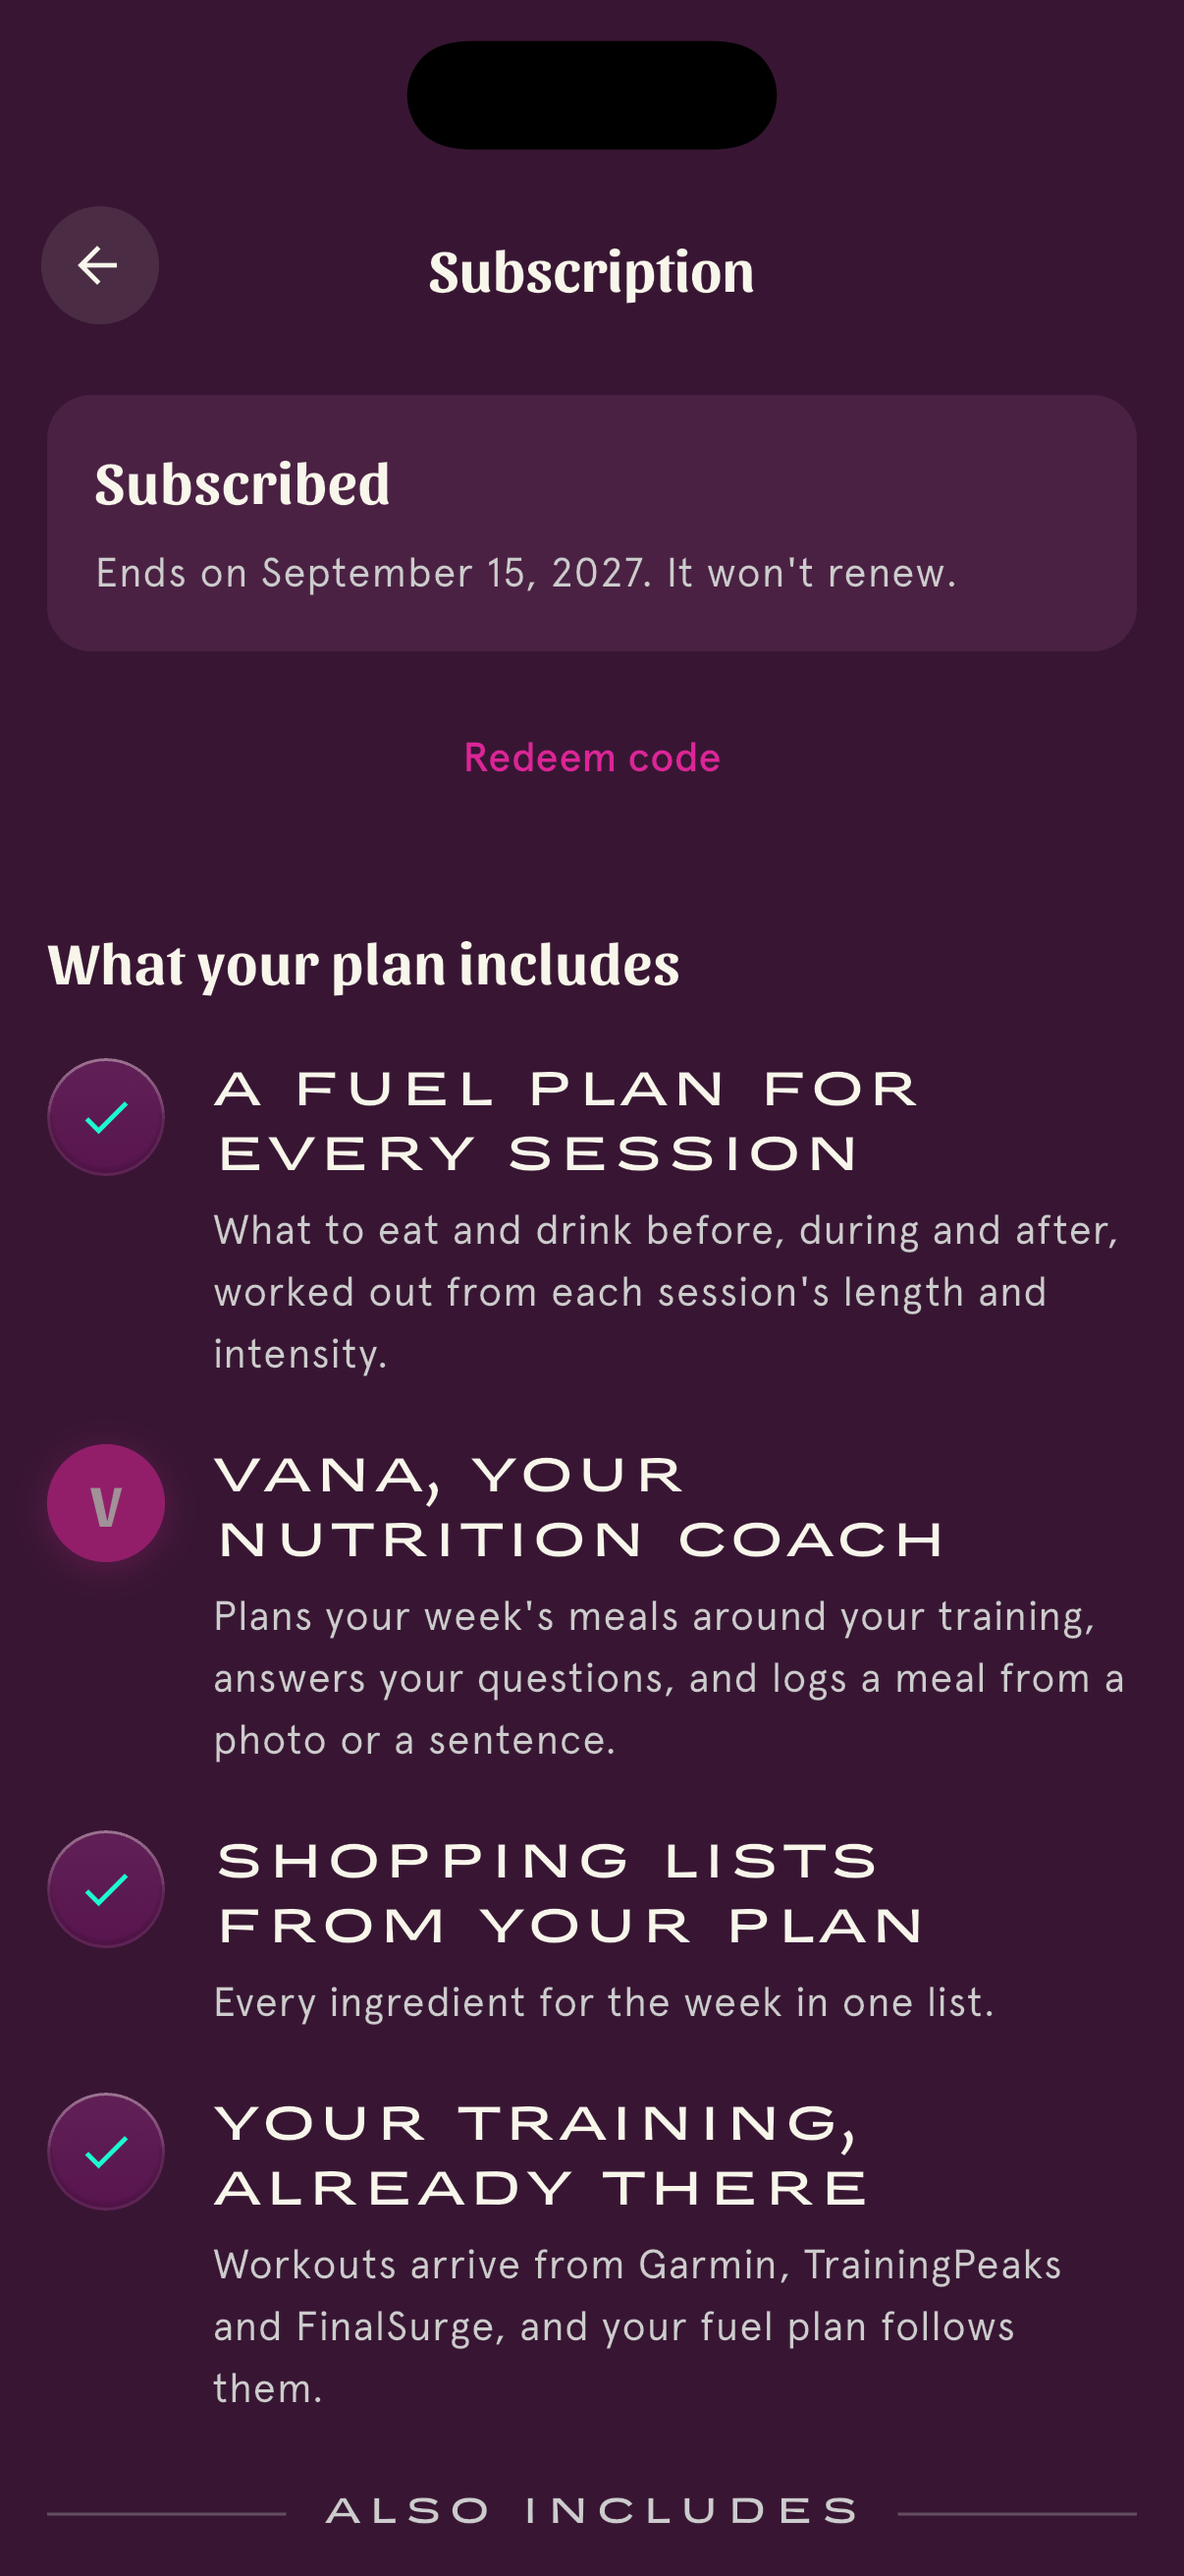
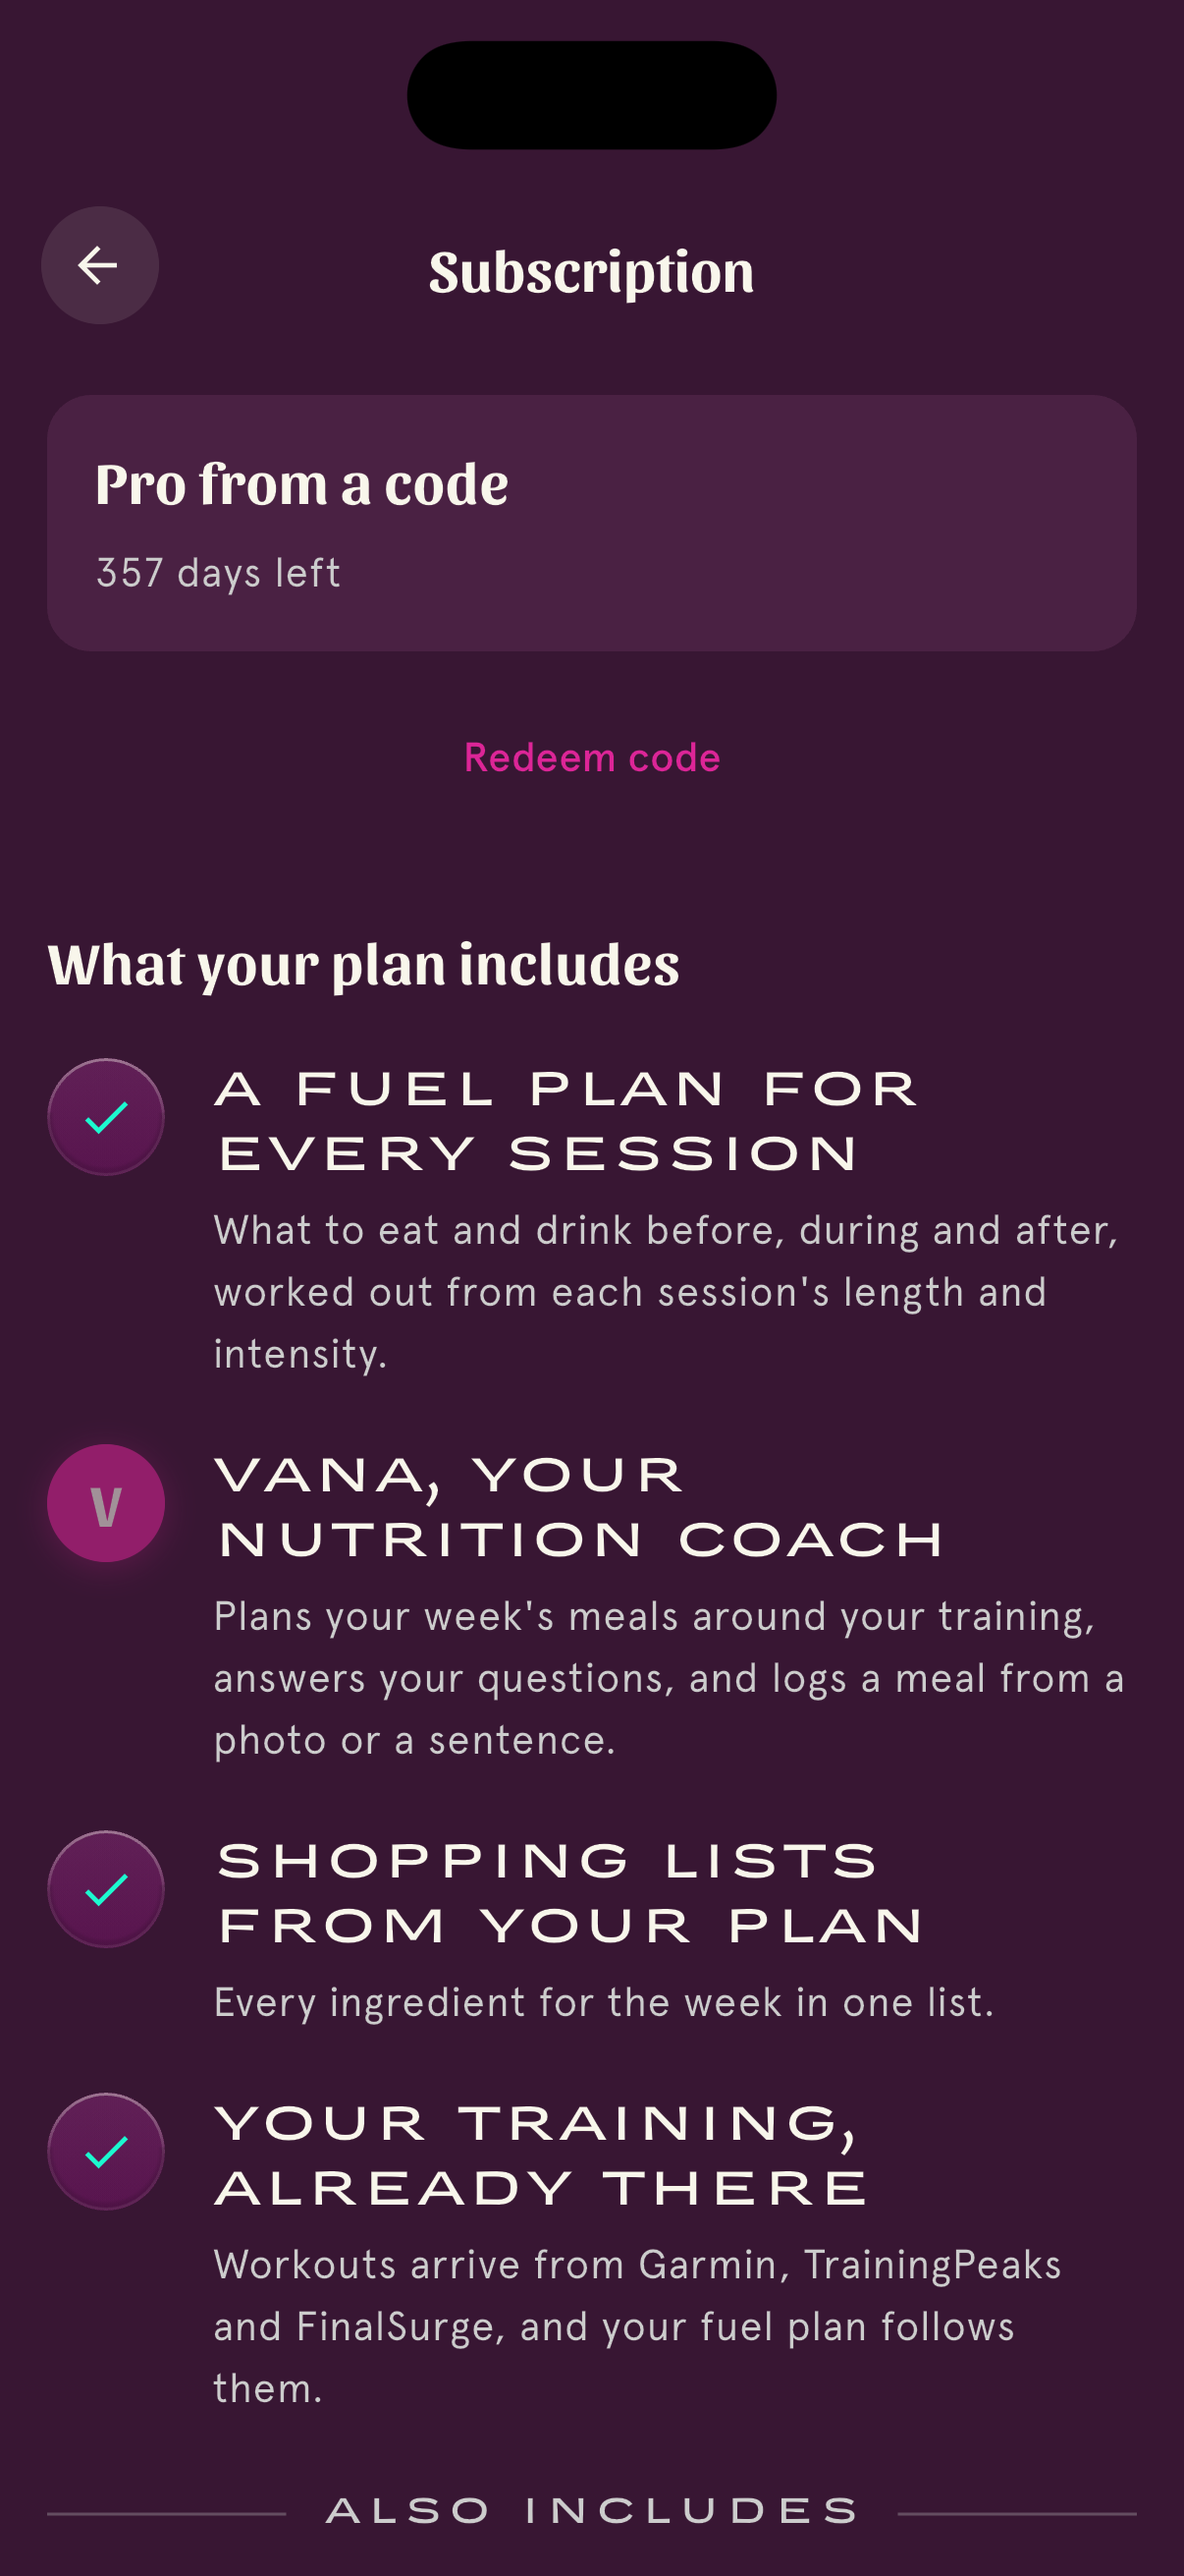
wave 7 paywall: six cards (mp-614..619), the lapsed paywall and Subscription pictures, mp-612 drawn [skip ci]

diff --git a/.scratch/mealplanning/decisions.md b/.scratch/mealplanning/decisions.md
@@ -2925,3 +2925,129 @@ An edit made while notes are being written is picked up on the next open. A requ
 **What it touches.** Vana chat; `chips.ts`, the planning persona (`persona.ts` rule 6).
 
 > 2026-09-23 opened in wave 7 ticket 12
+
+## mp-614 · Opening the paywall from inside the app leaves nothing behind it
+- category: Pro and paywall
+- status: proposed
+- image: docs/ssot/decisions/images/mealplanning/paywall-lapsed.png
+- caption: A lapsed account on 23 Sep: the full-screen paywall, no close button, the ⋯ menu top right
+- screen: Paywall
+- source: wave paywall 7 ticket 19
+
+**Context.** Before ticket 19, an AI tap, the Subscription screen's Upgrade button and the Vana launcher pushed the paywall on top of the screen the athlete was on, so a back swipe returned to it. mp-457 makes closed always the full-screen paywall with no close button. The Gate's redirect already sends a closed account to a paywall with nothing under it.
+
+**Question.** When something inside the app opens the paywall, can the athlete swipe back to where they were?
+
+**Decision.** No. Every way into the paywall replaces the whole screen stack, the same as the Gate's redirect, so there is no back swipe and no back button into the app. The only ways out are subscribing, restoring, redeeming a Code, or the ⋯ menu's Sign out and Delete account. Example: an athlete whose trial ended on 8 October taps the Vana launcher on 9 October; the paywall fills the screen and a swipe from the left edge does nothing.
+
+**Why.** A paywall pushed over the app would be a second, closable shape of the paywall, which mp-457 and mp-493 rule out.
+
+**What else was considered.** Pushing a full-screen page on top of the current screen; it leaves the app underneath, one back swipe away.
+
+**What it touches.** Paywall; `open_paywall.dart`, the AI action guard, the Subscription screen's Upgrade, the Vana launcher.
+
+> 2026-09-23 proposed in wave 7 ticket 19
+> 2026-09-23 picture reused from docs/ssot/decisions/images/mealplanning/paywall-lapsed.png
+
+## mp-615 · The Subscription screen tells a Grant's source from its length
+- category: Pro and paywall
+- status: proposed
+- image: docs/ssot/decisions/images/mealplanning/subscription.png
+- screen: Subscription screen
+- source: wave paywall 7 ticket 21
+
+**Context.** mp-558 says a Grant shows where it came from (Legacy grace, a Code, a coach's gift) and its days left. The app reads the account from RevenueCat, the subscription provider, and every Grant there looks the same: one promotional product, a start and an end. The app cannot read the server's record of which Code was used, and RevenueCat's app library does not hand the app the notes the server attaches to a customer.
+
+**Question.** How does the app decide what a Grant is called?
+
+**Decision.** By its length. A Grant of 30 days, give or take a day and a half, is shown as "Grace month"; any other length is shown as "Pro from a code". Under it goes the days left in calendar days, "1 day left" on the day before the end and "Last day today" on the last. Example: a Legacy grace Grant from 1 to 31 October shows "Grace month, 12 days left" on 19 October; a 365-day giveaway Code redeemed on 11 October shows "Pro from a code, 357 days left" on 23 October.
+
+**Why.** The length is the only thing the app can read that differs between them, and it needs no new server work before 1 October.
+
+**What else was considered.** The server's notes on the RevenueCat customer, the app's own copy of the Code it redeemed, and a new server function that answers the source; each needs server or data work the ticket did not have.
+
+**What it touches.** Subscription screen; `grant.dart`, `subscription_service.dart`, the `subscription.*` content keys.
+
+**Details.** A coach's own Code also gives 30 days, so it reads as "Grace month" (mp-617 asks whether to fix that). Days left are counted from today's local date to the end's local date and never go below 0.
+
+> 2026-09-23 proposed in wave 7 ticket 21
+> 2026-09-23 picture captured at 1.27.0+3, 36bea725
+
+## mp-616 · An ended plan says the athlete's data is kept, not read-only
+- category: Pro and paywall
+- status: proposed
+- image: docs/ssot/decisions/images/mealplanning/subscription.png
+- screen: Subscription screen
+- source: wave paywall 7 review
+
+**Context.** The Subscription screen's ended lines said "It ended on {date}. Your data is read-only until you subscribe." mp-280 took read-only mode out: a Lapsed account meets the full-screen paywall and its data is kept as it was.
+
+**Question.** What does the Subscription screen say about the athlete's data once the plan has ended?
+
+**Decision.** "It ended on {date}. Everything you saved is kept for when you subscribe again." With no end date it says only the second sentence. Example: a plan that ended on 8 October reads "It ended on 8 October. Everything you saved is kept for when you subscribe again."
+
+**Why.** "Read-only" describes a mode that no longer exists.
+
+**What else was considered.** Dropping the second sentence; the review kept it because mp-280 promises the data comes back.
+
+**What it touches.** Subscription screen; `subscription.ended_on` and `subscription.ended_no_date` content keys.
+
+> 2026-09-23 proposed in wave 7 review
+> 2026-09-23 picture captured at 1.27.0+3, 36bea725
+
+## mp-617 · Should a coach's own Code stop showing as "Grace month"?
+- category: Pro and paywall
+- kind: question
+- status: open
+- linked: mp-615
+- image: none
+- screen: Subscription screen
+- source: wave paywall 7 ticket 21
+
+**Context.** mp-615 names a Grant by its length, and 30 days reads as "Grace month". A coach entering their own Code also gets 30 days of Pro (mp-458), so their Subscription screen says "Grace month" although they never had the Legacy grace.
+
+**Question.** Should the server mark each Grant's source so the app names it exactly (A), give the Legacy grace a length no Code uses, such as 31 days (B), or leave it (C)?
+
+**Why.** A coach who reads "Grace month" may think their Code did not work. A and B need server work before the 1 October cutover; C needs none.
+
+**What it touches.** Subscription screen; the grace claim and `redeem-code` functions, `grant.dart`.
+
+> 2026-09-23 opened in wave 7 ticket 21
+
+## mp-618 · What is "a coach's gift" on the Subscription screen?
+- category: Pro and paywall
+- kind: question
+- status: open
+- linked: mp-558
+- image: none
+- screen: Subscription screen
+- source: wave paywall 7 ticket 21
+
+**Context.** mp-558 lists three Grant sources: Legacy grace, a Code and a coach's gift. The glossary counts coach comps as Grants. Nothing in the app or its server gives an athlete Pro on a coach's behalf today, so ticket 21 added no label for it and such a Grant would read as "Pro from a code" or "Grace month".
+
+**Question.** Is a coach's gift the Pro a coach gets from their own Code (A), a Grant we make by hand in RevenueCat for a coach (B), or a feature still to build where a coach gives an athlete Pro (C)?
+
+**Why.** It decides whether the screen needs a third label now, and whether a later ticket is owed.
+
+**What it touches.** Subscription screen, the `subscription.*` content keys.
+
+> 2026-09-23 opened in wave 7 ticket 21
+
+## mp-619 · Should Manage subscription show when a Grant outlasts a store subscription?
+- category: Pro and paywall
+- kind: question
+- status: open
+- linked: mp-558
+- image: none
+- screen: Subscription screen
+- source: wave paywall 7 review
+
+**Context.** mp-558 says Manage subscription shows whenever Pro came from a real store, running or ended. The app looks at one record, the `pro` entitlement, and RevenueCat fills it from whichever source ends last. So an athlete with a monthly subscription who also redeems a 365-day Code sees the Code and no Manage, and cannot reach the store to cancel the monthly from the app.
+
+**Question.** Should the app look through every purchase the account has made and show Manage whenever any came from a store (A), or keep following the one `pro` record (B)?
+
+**Why.** An athlete paying for a subscription they can't find in the app may ask the store for a refund.
+
+**What it touches.** Subscription screen, the paywall's ⋯ menu; `subscription_service.dart`.
+
+> 2026-09-23 opened in wave 7 review

diff --git a/docs/ssot/decisions/mealplanning.md b/docs/ssot/decisions/mealplanning.md
@@ -9376,7 +9376,7 @@ Founding is a product id containing `_founding` (`me_pro_*_founding` and the `_p
 ## mp-611 · Ticket 19: One full-screen paywall for everyone without Pro
 - category: Tickets
 - status: approved
-- image: none
+- image: test/features/subscription/presentation/goldens/paywall_light.png
 - screen: Paywall
 - source: tickets paywall 2026-09-23
 - ticket: 19
@@ -9404,11 +9404,13 @@ Founding is a product id containing `_founding` (`me_pro_*_founding` and the `_p
 
 > 2026-09-23 proposed from the no-read-only ruling
 > 2026-09-23 approved by Lee
+> 2026-09-23 picture reused from test/features/subscription/presentation/goldens/paywall_light.png
 
 ## mp-612 · Ticket 20: Read-only plumbing comes out
 - category: Tickets
 - status: approved
 - image: none
+- svg: docs/ssot/decisions/images/mealplanning/mp-612.svg
 - screen: none (clean-up across the app's controllers)
 - source: tickets paywall 2026-09-23
 - ticket: 20
@@ -9440,7 +9442,7 @@ Founding is a product id containing `_founding` (`me_pro_*_founding` and the `_p
 ## mp-613 · Ticket 21: The Subscription screen shows a Grant's source and days left
 - category: Tickets
 - status: approved
-- image: none
+- image: docs/ssot/decisions/images/mealplanning/subscription.png
 - screen: Subscription screen
 - source: tickets paywall 2026-09-23
 - ticket: 21
@@ -9468,3 +9470,4 @@ Founding is a product id containing `_founding` (`me_pro_*_founding` and the `_p
 
 > 2026-09-23 proposed from mp-558
 > 2026-09-23 approved by Lee
+> 2026-09-23 picture captured at 1.27.0+3, 36bea725
